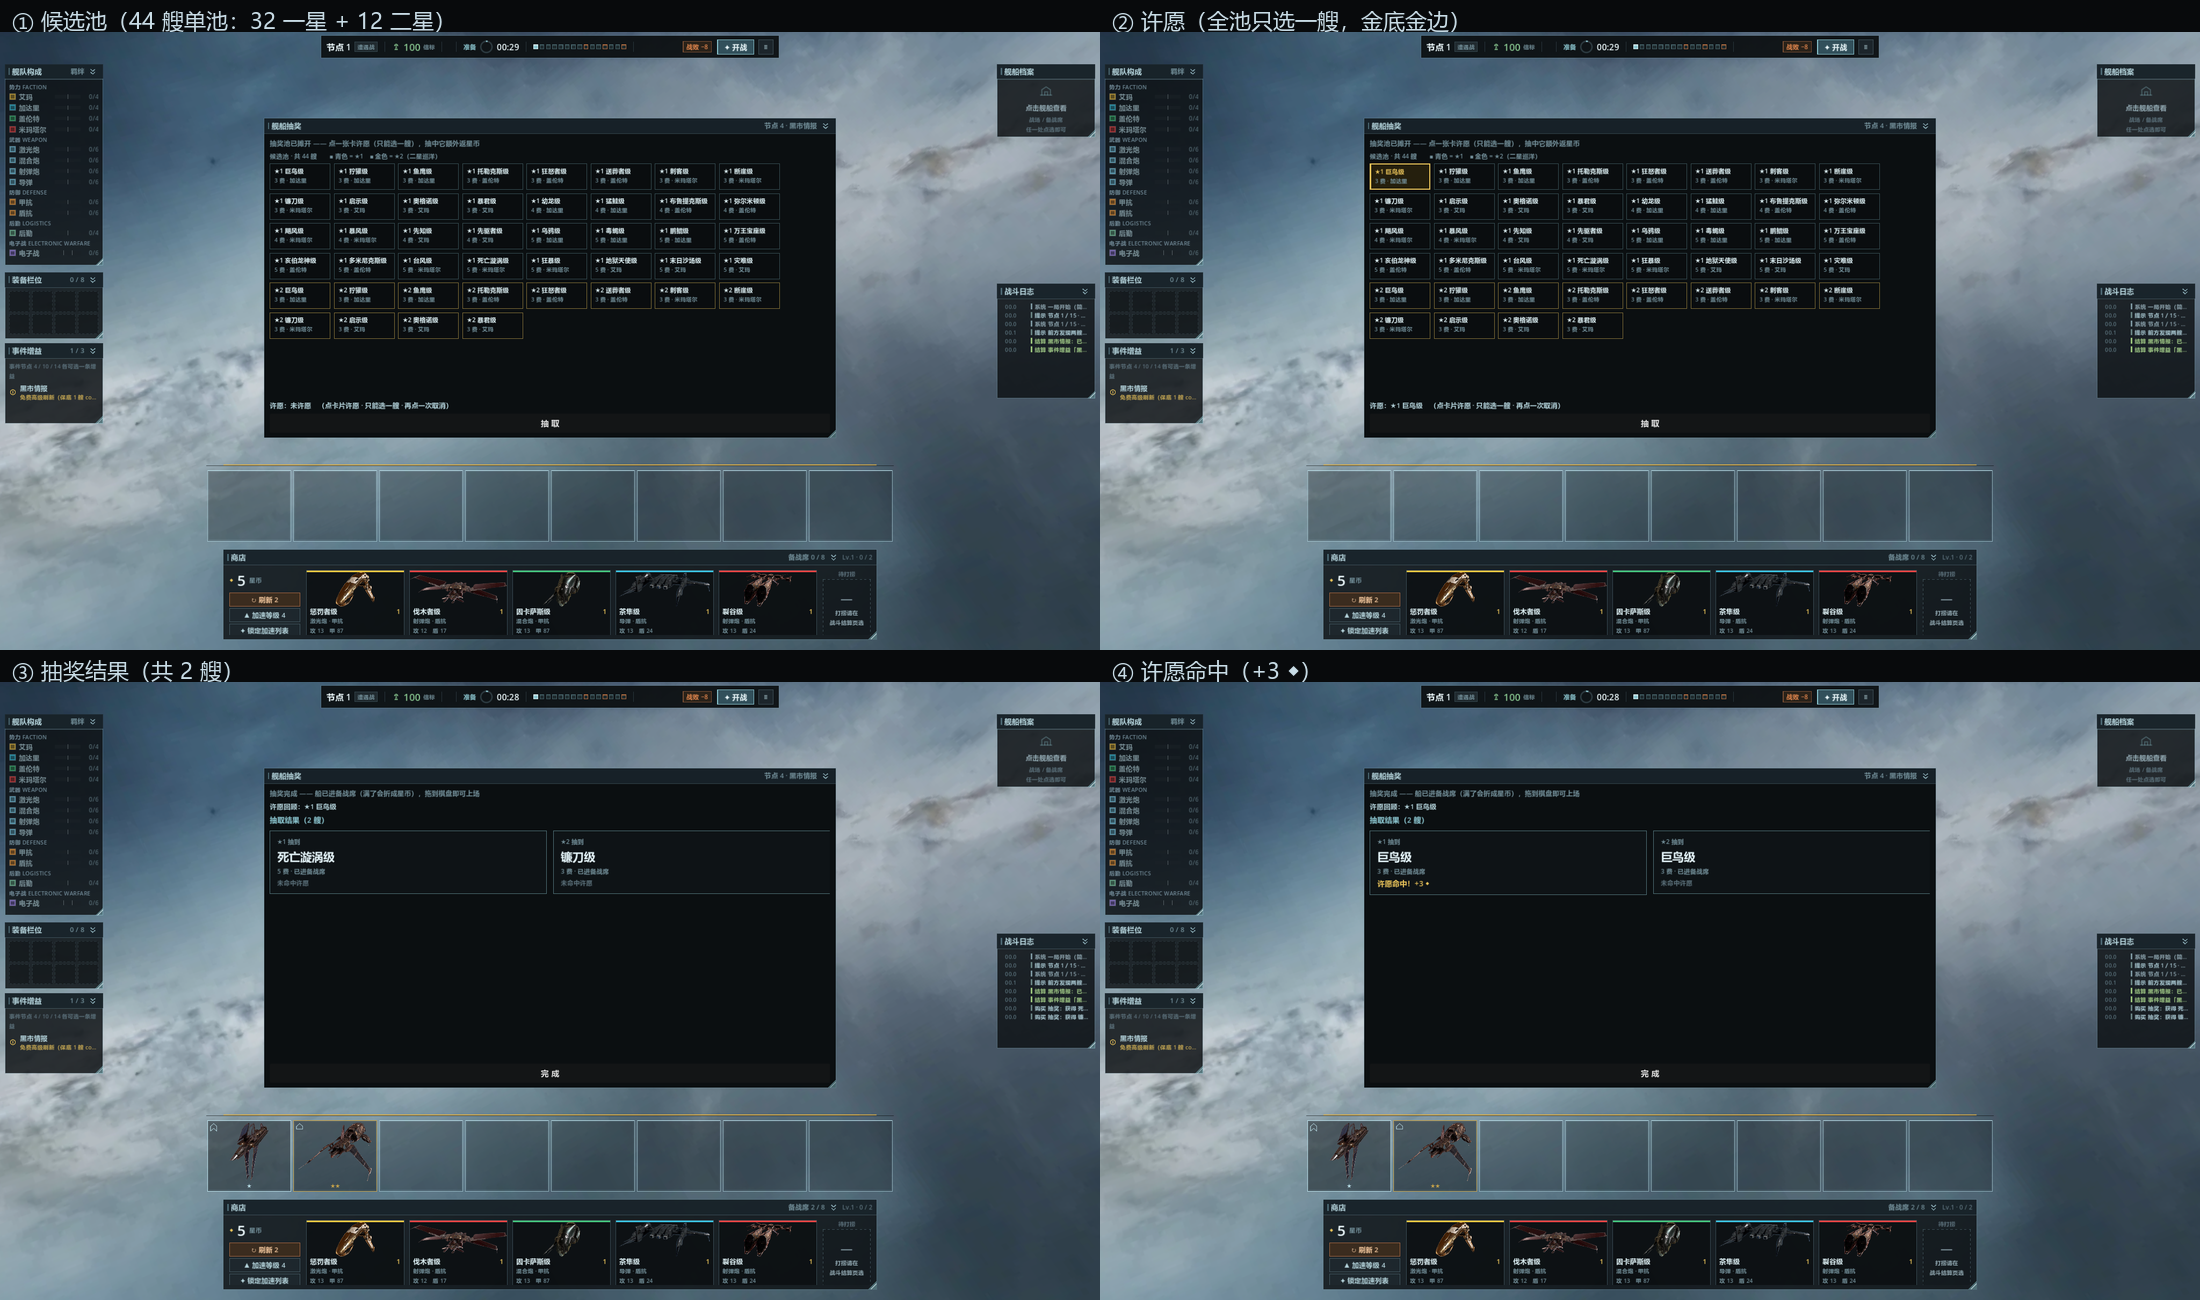
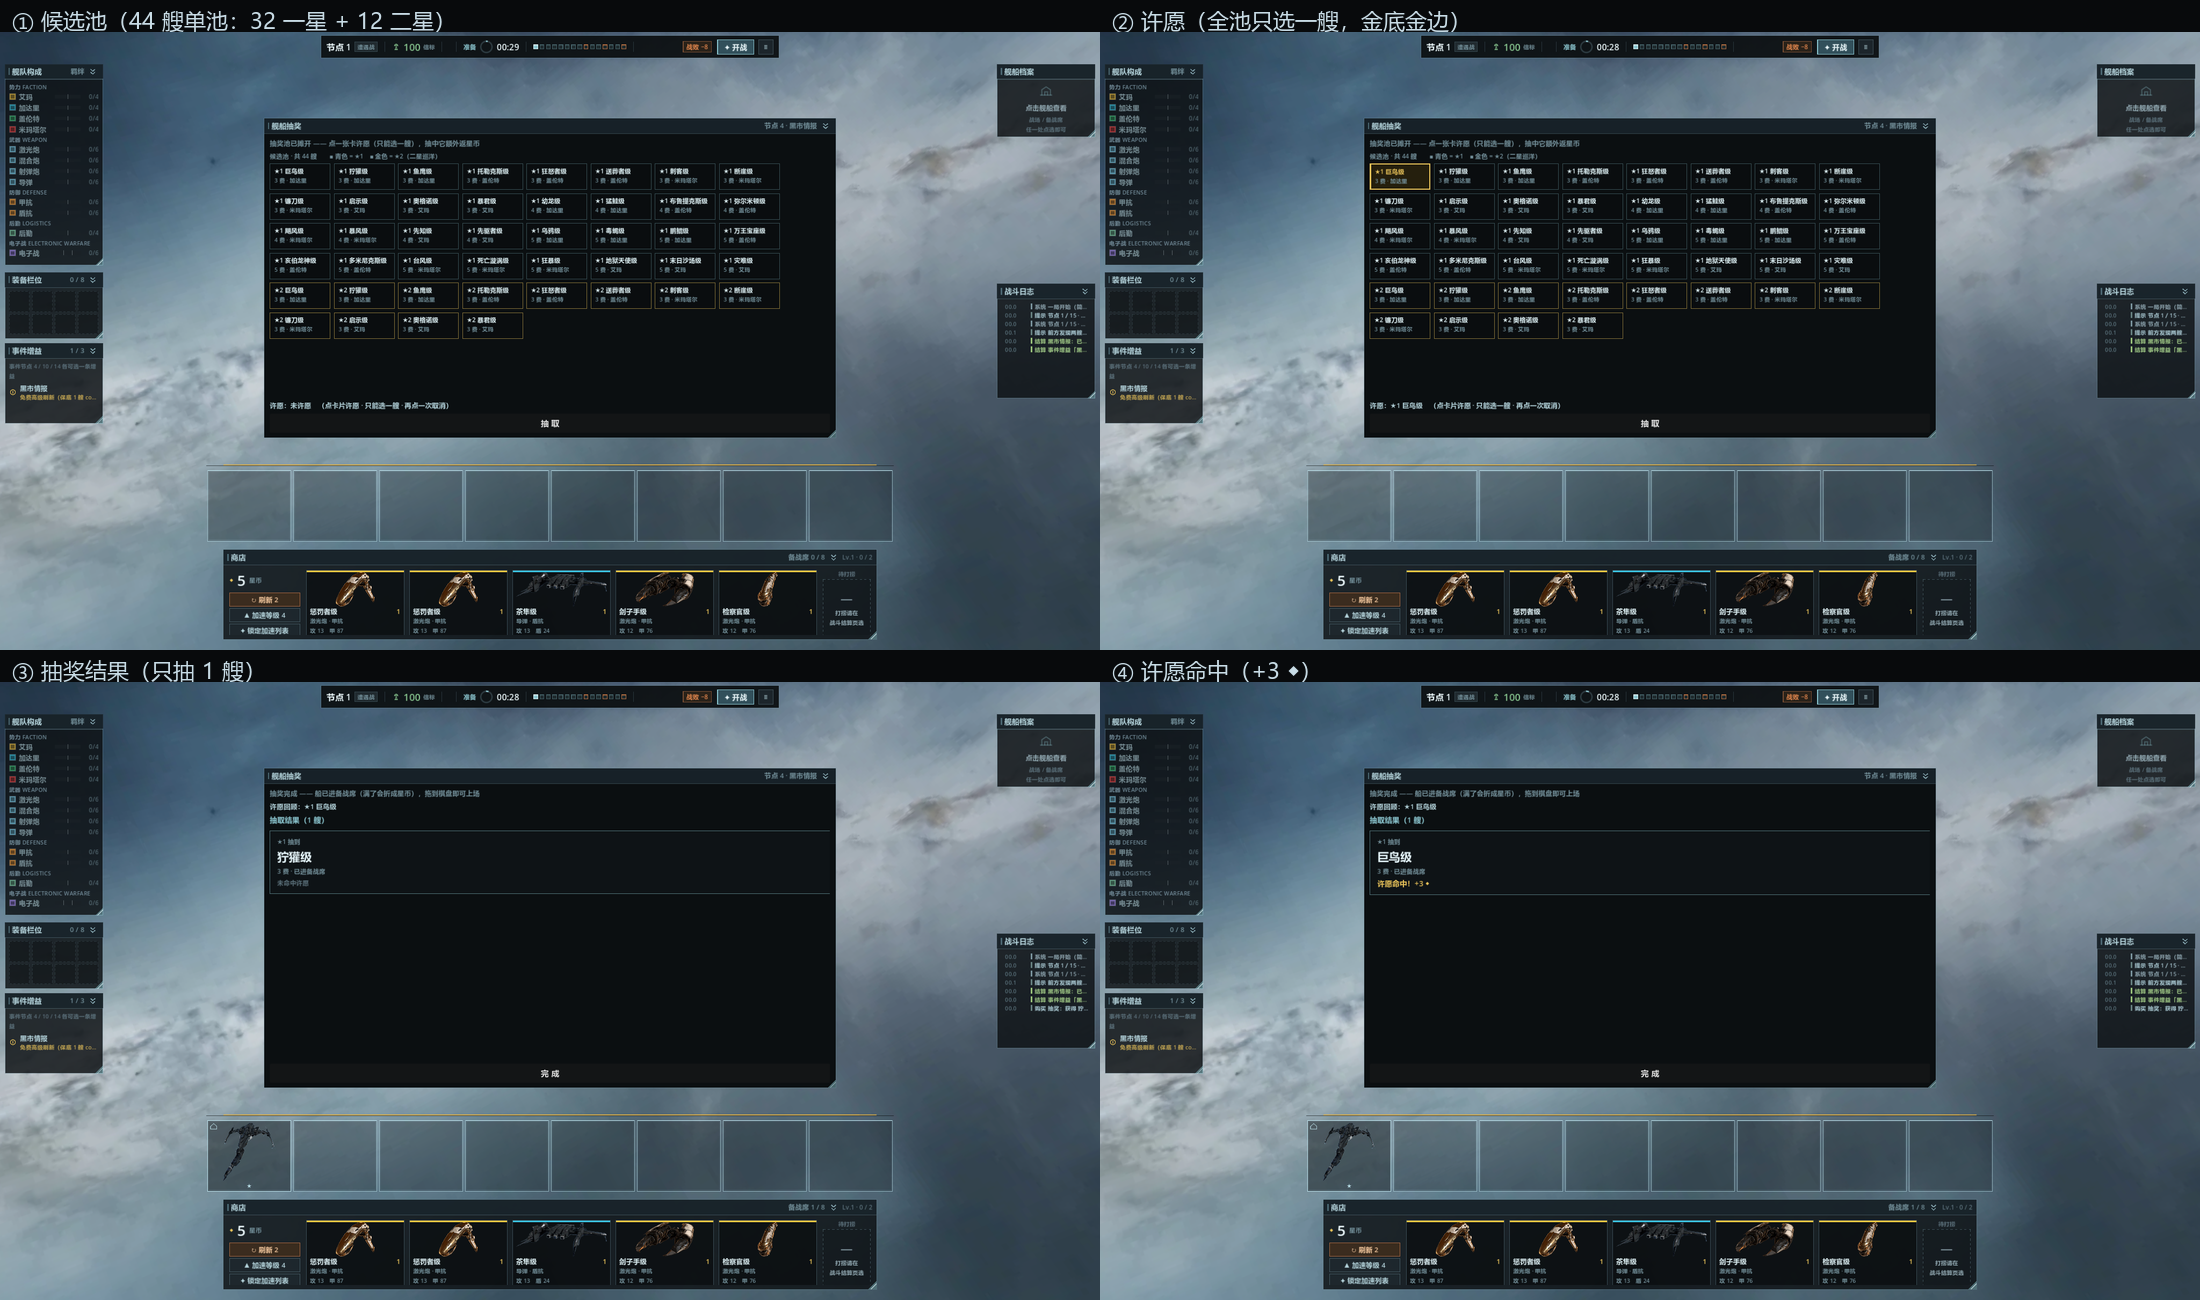
抽奖次数收回：一次只抽 1 艘（用户：抽两艘奖励太丰厚）
LOTTERY_DRAW_TIMES 2 -> 1；prep/AI 注释/探针假结果/文档示意同步。
verify_run 1030/0。

diff --git a/docs/玩家反馈-炼狱经济与抽奖-2026-10-31.md b/docs/玩家反馈-炼狱经济与抽奖-2026-10-31.md
@@ -102,12 +102,12 @@
 ```
 │ 抽奖完成 —— 船已进备战席（满了会折成星币），拖到棋盘即可上场 │
 │ 许愿回顾：★1 巨鸟级                                        │
-│ 抽取结果（2 艘）                                            │
-│ ┌ ★1 抽到 ─────┐ ┌ ★2 抽到 ─────┐                        │
-│ │ 巨鸟级        │ │ 狞獾级        │                        │
-│ │ 3 费 · 已进备战席 │ │ 3 费 · 已进备战席 │                   │
-│ │ 许愿命中！+3 ◆ │ │ 未命中许愿     │                        │
-│ └──────────────┘ └──────────────┘                        │
+│ 抽取结果                                                    │
+│ ┌ ★2 抽到 ────────────┐                                   │
+│ │ 狞獾级               │                                   │
+│ │ 3 费 · 已进备战席     │                                   │
+│ │ 未命中许愿            │                                   │
+│ └─────────────────────┘                                   │
 │                    [ 完 成 ]                                │
 ```
 
@@ -115,7 +115,7 @@
 
 | 项 | 口径 | 理由 |
 |---|---|---|
-| 抽几次 | **抽 2 艘**（`LOTTERY_DRAW_TIMES`，全从同一个池抽） | 玩家的原话只规定了「池子合并 + 只选一艘许愿」，没改抽取数量；保 2 艘与发版时玩家已见过的产出一致 |
+| 抽几次 | **只抽 1 艘**（`LOTTERY_DRAW_TIMES = 1`） | ★ 用户 2026-10-31 定案：「玩家抽到的是两艘，这不对，得是一艘，不然奖励就太丰厚了」。奖品的定位是彩头，不是白送 3 费船 |
 | 花不花钱 | **免费** | 这是事件的追加奖励，不是商店 |
 | 船去哪 | 备战席；**满了折成星币**（= 该船一星价格） | 见 §5.2 |
 | 许愿命中 | **全池只许愿 1 艘**，按「船 + 星级」精确匹配；命中额外返 **该船的一星价格**（`cost`） | 同一艘巡洋会以 ★1/★2 两个身份同时在池里，只按船名匹配有歧义；二星按一星计价 ⇒ 也是 3 |
@@ -143,7 +143,7 @@ prep.on_event_chosen(&"black_market")
 
 ### 4.4 AI 操作面
 
-`ai_event_state()` 多一个 `lottery_open`；新增命令 `lottery`（抽 2 艘 + 点完成，一次走完，
+`ai_event_state()` 多一个 `lottery_open`；新增命令 `lottery`（抽 1 艘 + 点完成，一次走完，
 可带 `wish_key`/`wish_star` 参与许愿）。
 ⛔ 不给这个字段 / 命令的话，AI 会看到「事件已选、面板全关、节点不动」然后无限重试 ——
 和 2026-10-05 打捞那个死循环是同一类病。
